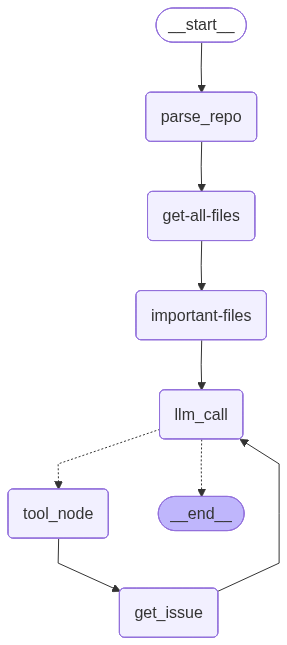
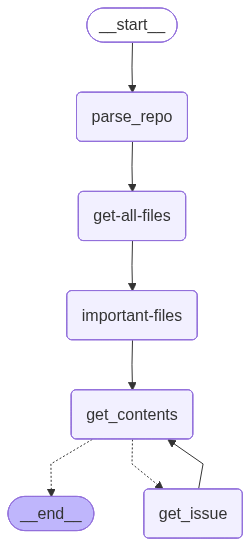
down to 7000 tokens with same performance

Changed region(s): [[0.0, 0.0, 0.98, 0.9963], [0.28, 0.1868, 0.308, 0.2491], [0.336, 0.0311, 0.364, 0.0623]]

diff --git a/graph.py b/graph.py
@@ -21,7 +21,7 @@ def should_continue(state:MessageState) -> Literal["tool_node", END]:
     currIndex = state.curr_index
     if(currIndex >= len(state.files)):
         return END
-    return "tool_node"
+    return "get_issue"
 
 
 llm_with_tools = llm.bind_tools([get_file_content])
@@ -31,42 +31,67 @@ class LLMWithTools(BaseModel):
     curr_index: int = 0
 
 
-def llm_call(state:MessageState) -> MessageState:
-    """LLM decide whether to call a tool or not"""
+
+# # i dont need llm_call to get content of file
+# def llm_call(state:MessageState) -> MessageState:
+#     """LLM decide whether to call a tool or not"""
+#     owner = state.owner
+#     repo = state.repo
+#     currIndex = state.curr_index
+#     file = state.files[currIndex]
+#     response = llm_with_tools.invoke([
+#            SystemMessage(
+#             content=(
+#                 "You MUST call the get_file_content tool.\n"
+#                 "Do not answer in text.\n"
+#                 "Only call the tool with valid JSON arguments."
+#             )
+#         ),
+#        HumanMessage(
+#     content=(
+#         f"owner: {owner}\n"
+#         f"repo: {repo}\n"
+#         f"file_path: {file}\n\n"
+#         "After fetching the file, decide if it contains an issue."
+#     )
+# )
+#     ])
+#     return MessageState(messages=[response], curr_index=state.curr_index+1, files=state.files, owner=state.owner, repo=state.repo,llm_calls=state.llm_calls+1)
+
+def get_contents_of_file(state:MessageState) -> str:
+    """Get content of the current file"""
     owner = state.owner
     repo = state.repo
     currIndex = state.curr_index
     file = state.files[currIndex]
-    response = llm_with_tools.invoke([
-           SystemMessage(
-            content=(
-                "You MUST call the get_file_content tool.\n"
-                "Do not answer in text.\n"
-                "Only call the tool with valid JSON arguments."
-            )
-        ),
-       HumanMessage(
-    content=(
-        f"owner: {owner}\n"
-        f"repo: {repo}\n"
-        f"file_path: {file}\n\n"
-        "After fetching the file, decide if it contains an issue."
+    content = get_file_content.invoke({
+        "owner": owner,
+        "repo": repo,
+        "file_path": file
+    })
+    return MessageState(
+        messages=[],
+        curr_index=state.curr_index+1,
+        files=state.files,
+        owner=state.owner,
+        repo=state.repo,
+        curr_observation=content,
+        observations_added=state.observations_added,
+        llm_calls=state.llm_calls,
+        path=state.path,
     )
-)
-    ])
-    return MessageState(messages=[response], curr_index=state.curr_index+1, files=state.files, owner=state.owner, repo=state.repo,llm_calls=state.llm_calls+1)
 
 
-def tool_node(state: MessageState) -> MessageState:
-    """Performs the tool call"""
+# def tool_node(state: MessageState) -> MessageState:
+#     """Performs the tool call"""
 
-    obs = ""
-    tool_messages = []
-    for tool_call in state.messages[-1].tool_calls:
-        observation = get_file_content.invoke(tool_call["args"])
-        tool_messages.append(ToolMessage(content=observation, tool_call_id=tool_call["id"]))
-        obs += observation + "\n"
-    return MessageState(messages= tool_messages, curr_index=state.curr_index, files=state.files, owner=state.owner,observations=[], repo=state.repo,curr_observation=obs,observations_added=state.observations_added+1)
+#     obs = ""
+#     tool_messages = []
+#     for tool_call in state.messages[-1].tool_calls:
+#         observation = get_file_content.invoke(tool_call["args"])
+#         tool_messages.append(ToolMessage(content=observation, tool_call_id=tool_call["id"]))
+#         obs += observation + "\n"
+#     return MessageState(messages= tool_messages, curr_index=state.curr_index, files=state.files, owner=state.owner,observations=[], repo=state.repo,curr_observation=obs,observations_added=state.observations_added+1)
 
 def get_issue(state: MessageState) -> MessageState:
     obs = state.curr_observation
@@ -98,18 +123,19 @@ agent_builder = StateGraph(state_schema=MessageState)
 agent_builder.add_node("parse_repo",parse_repo)
 agent_builder.add_node("get-all-files",get_repo_files)
 agent_builder.add_node("important-files",get_important_files)
-agent_builder.add_node("llm_call",llm_call)
-agent_builder.add_node("tool_node",tool_node)
+# agent_builder.add_node("llm_call",llm_call)
+agent_builder.add_node("get_contents",get_contents_of_file)
+# agent_builder.add_node("tool_node",tool_node)
 agent_builder.add_node("get_issue",get_issue)
 
 agent_builder.add_edge(START,"parse_repo")
 agent_builder.add_edge("parse_repo","get-all-files")
 agent_builder.add_edge("get-all-files","important-files")
-agent_builder.add_edge("important-files","llm_call")
-agent_builder.add_conditional_edges("llm_call",should_continue,["tool_node",END])
+agent_builder.add_edge("important-files","get_contents")
+agent_builder.add_conditional_edges("get_contents",should_continue,["get_issue",END])
 # agent_builder.add_edge("tool_node", "llm_call")
-agent_builder.add_edge("tool_node","get_issue")
-agent_builder.add_edge("get_issue","llm_call")
+# agent_builder.add_edge("tool_node","get_issue")
+agent_builder.add_edge("get_issue","get_contents")
 
 
 # Compile the agent
